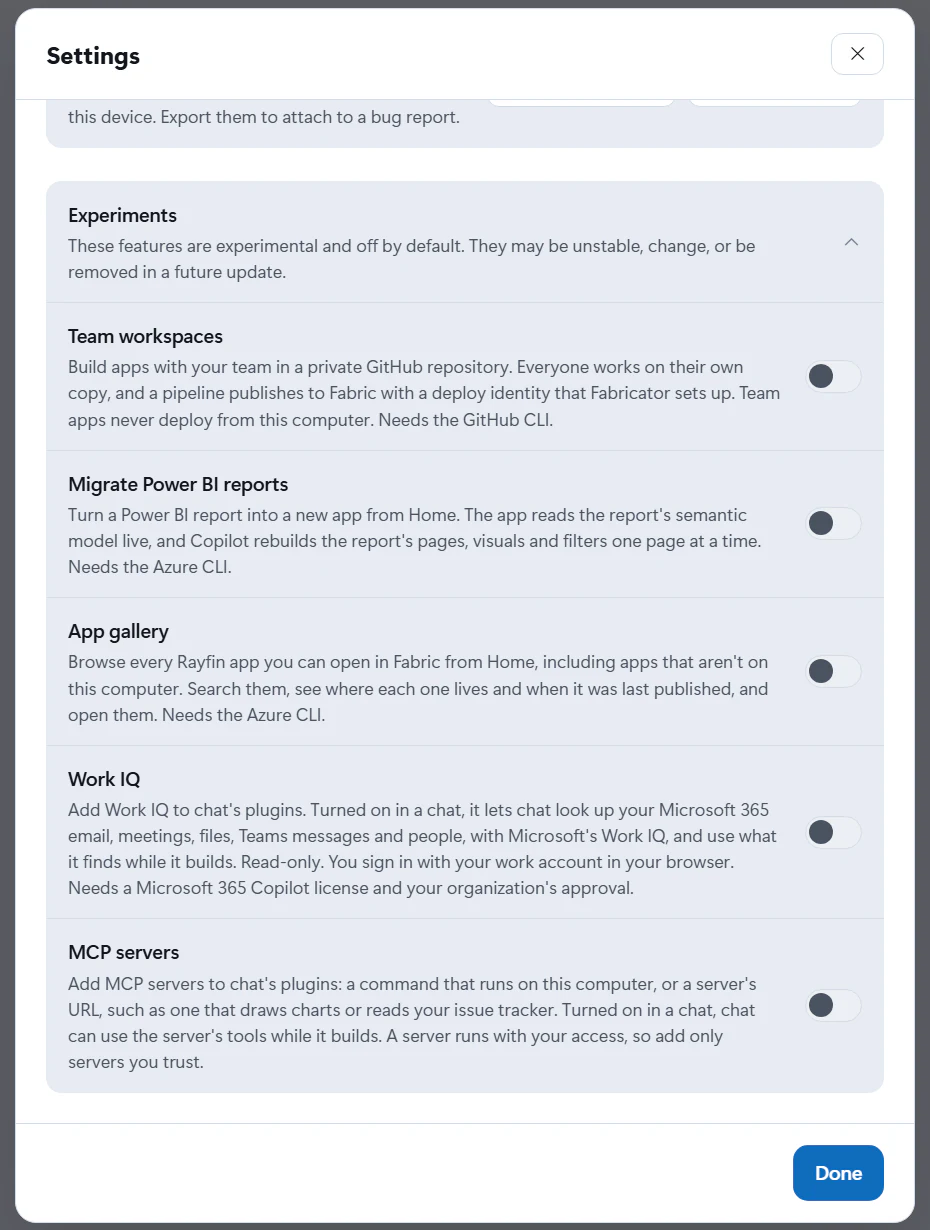
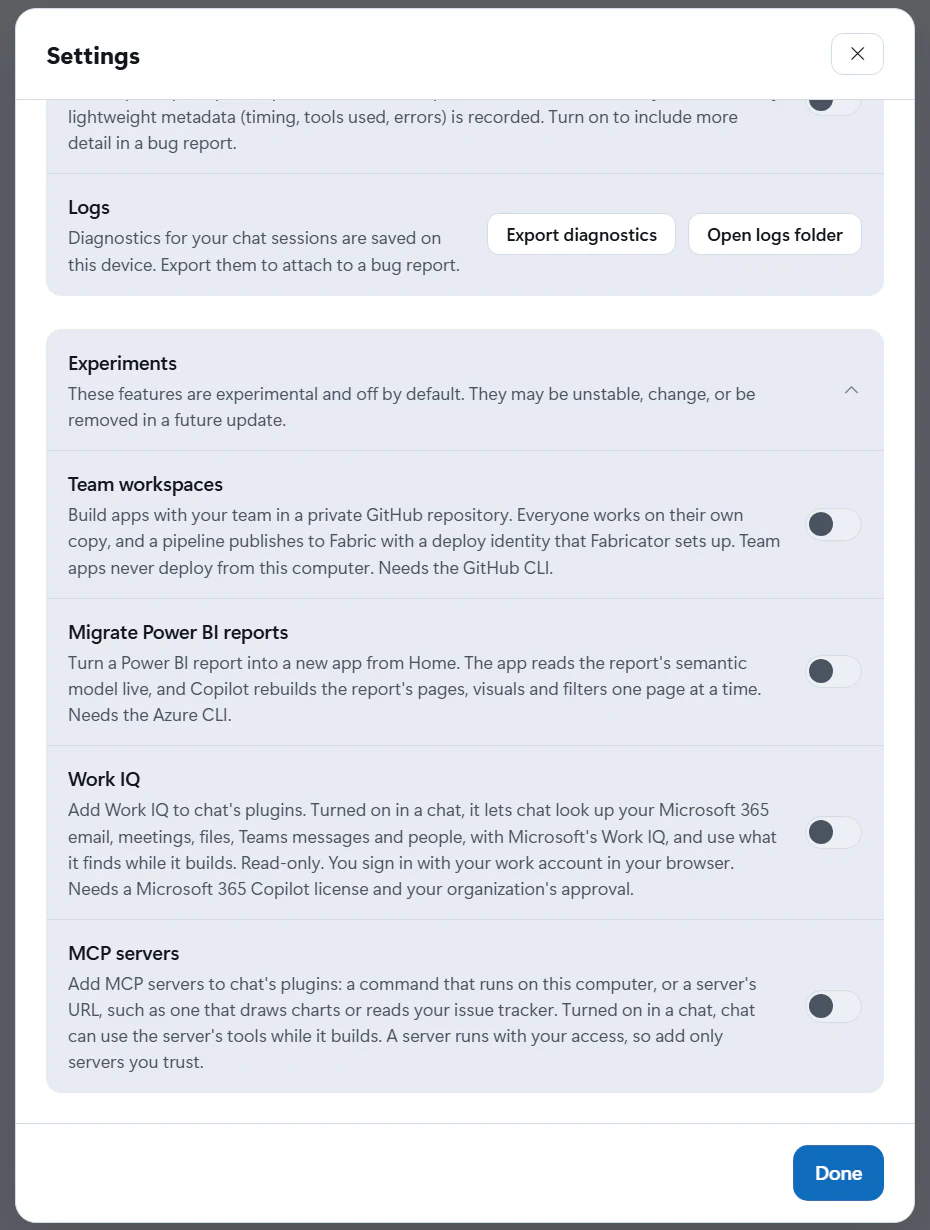
Show Settings' four experiments now that the app gallery has shipped
Recapture settings-experiments (both themes) with the docs harness, and
drop App gallery from the alt text of the pages that show it and from
the screenshot table in website/AGENTS.md.

Copilot-Session: 9e7ce2f7-fb37-415b-bcee-0aecc0c6d6da

diff --git a/website/AGENTS.md b/website/AGENTS.md
@@ -183,7 +183,7 @@ in `.md`.
 | `advisor-finding` | An open Advisor issue with its fix actions | `/docs/ship/advisor` |
 | `rayfin-version` | The Rayfin version control with an update available | `/docs/ship/rayfin-versions` |
 | `settings` | The Settings dialog: General (with **API keys**), Appearance and the start of Diagnostics (sample data) | `/docs/reference/settings` |
-| `settings-experiments` | Settings' Experiments section with **Team workspaces**, **Migrate Power BI reports**, **App gallery**, **Work IQ** and **MCP servers**, all off (sample data) | `/docs/team`, `/docs/build/migrate-power-bi`, `/docs/build/fabric-iq-and-work-iq`, `/docs/build/mcp-servers` |
+| `settings-experiments` | Settings' Experiments section with **Team workspaces**, **Migrate Power BI reports**, **Work IQ** and **MCP servers**, all off (sample data) | `/docs/team`, `/docs/build/migrate-power-bi`, `/docs/build/fabric-iq-and-work-iq`, `/docs/build/mcp-servers` |
 | `migrate-report` | **Migrate a Power BI report** with a report picked: its workspace, semantic model, pages and the three checks, all passing (sample data) | `/docs/build/migrate-power-bi` |
 | `migration-card` | The Migration card above the chat composer after the first page, with **Migrate next page** and **Migrate the rest** (sample data) | `/docs/build/migrate-power-bi` |
 | `app-gallery` | The **App gallery** with the sample user's apps, and the sample app's details open beside them (sample data) | `/docs/build/app-gallery` |
